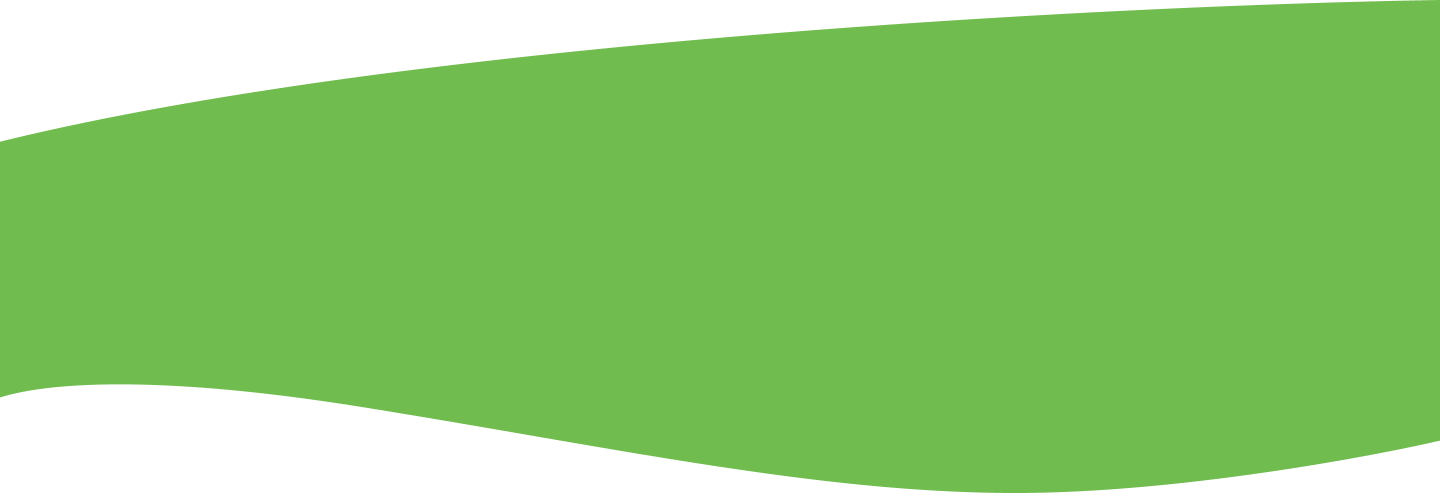
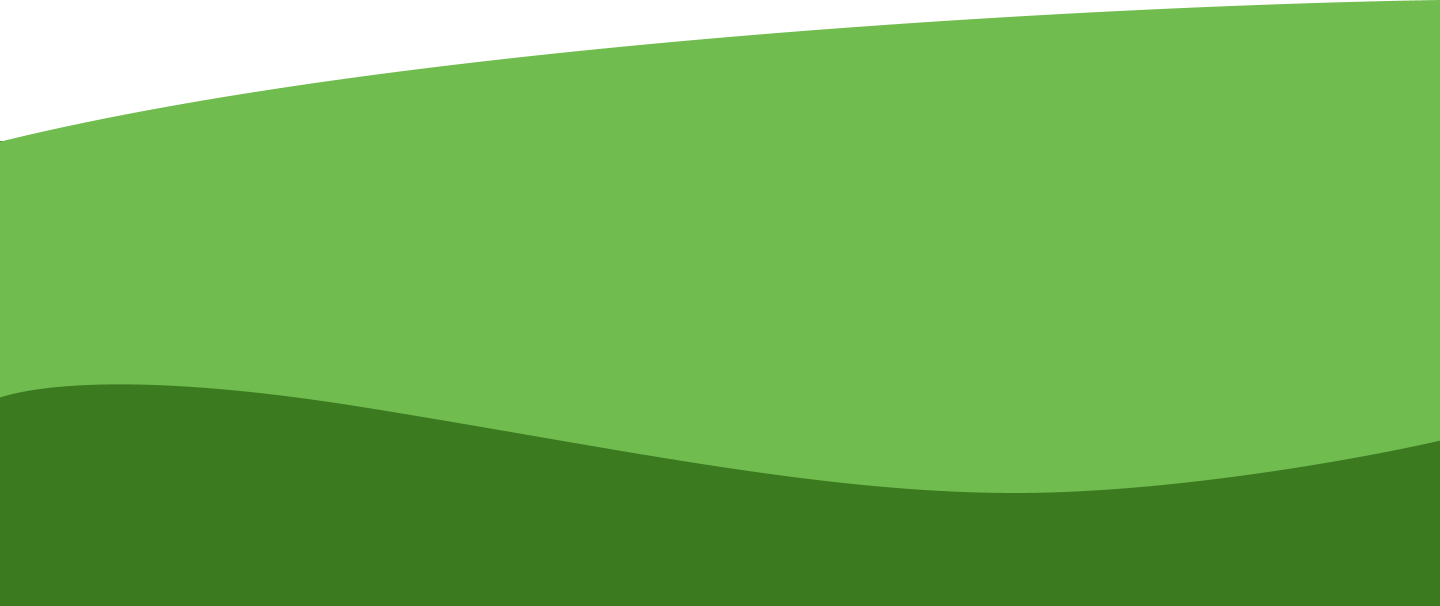
selection changes

Changed region(s): [[0.0, 0.6085, 1.0, 1.0], [0.0, 0.0, 0.9062, 0.3043]]

diff --git a/minilingo/src/Style/GameSelection.css b/minilingo/src/Style/GameSelection.css
@@ -26,18 +26,28 @@
 }
 
 .circle-btn {
-  width: 140px;
-  height: 140px;
+  width: 170px;
+  height: 170px;
   border-radius: 50%;
+  background: linear-gradient(
+    145deg,
+    rgb(255, 188, 106) 0%, /* top-left light */
+    rgba(255, 178, 62, 0.6) 50%, /* middle color */
+    rgba(244, 145, 7, 0.898) 100% /* bottom-right darker */
+  );
   /* Matches the translucent pink circles in your image */
-  background-color: rgba(224, 196, 196, 0.6); 
+  background-color: #F4B11A; 
   border: 4px solid white;
   font-size: 60px;
   cursor: pointer;
   position: absolute;
   transition: transform 0.2s cubic-bezier(0.175, 0.885, 0.32, 1.275);
+  box-shadow: 0 8px 12px rgba(0,0,0,0.2);
 }
 
+.circle-btn.bottom{
+  transform: translateX(-50%);
+}
 .circle-btn:hover {
   transform: scale(1.15);
 }
@@ -45,7 +55,16 @@
 /* Staggered positioning to match image_b42435.png layout */
 .circle-btn.left { left: 10%; top: 15%; }
 .circle-btn.right { right: 10%; top: 10%; }
-.circle-btn.bottom { left: 50%; top: 55%; transform: translateX(-50%); }
+.circle-btn.bottom {  left: 50%; top: 55%; transform: translateX(-50%);}
+
+.circle-btn.left:hover,
+.circle-btn.right:hover {
+  transform: scale(1.15); /* scale without moving */
+}
+
+.circle-btn.bottom:hover {
+  transform: translateX(-50%) scale(1.15); /* keep centered + scale */
+}
 
 .landscape {
   position: absolute;
@@ -53,15 +72,112 @@
   width: 100%;
 }
 
-.hill-light {
-  background-color: #8db359;
-  height: 25vh;
-  border-radius: 50% 50% 0 0 / 100% 100% 0 0;
-  margin-bottom: -10vh;
+/* hill full width - now occupying space in the flow */
+.hill-wrap {
+  position: relative; /* Change from absolute to relative */
+  width: 100%;
+  z-index: 2; /* Sits above the background color, below the text */
+  margin-top: -30vh; /* Keeps it overlapping the sky slightly for the "horizon" look */
+  line-height: 0; /* Prevents tiny gaps at the bottom of images */
 }
 
-.hill-dark {
-  background-color: #4d6d1d;
-  height: 35vh;
-  border-radius: 50% 50% 0 0 / 100% 100% 0 0;
+.hill-img {
+  width: 100%;
+  height: auto;
+  display: block;
 }
+.tree-img {
+  position: absolute;
+  bottom: 80%;     /* slightly above bottom of hill-wrap */
+  left: 15%;
+  transform: translateX(-50%);
+  width: 80px;
+  height: 120px;
+  z-index: 10;     /* above hill and clouds for testing */
+}
+.tree-img-2 {
+  position: absolute;
+  bottom: 80%;     /* slightly above bottom of hill-wrap */
+  left: 20%;
+  transform: translateX(-50%);
+  width: 80px;
+  height: 120px;
+  z-index: 10;     /* above hill and clouds for testing */
+  border: 2px solid red; 
+}
+
+.fill {
+  background-color: #3C7A20; /* Dark green */
+  height: 200px; /* enough to show below hill */
+  position: relative;
+  z-index: 1; 
+  /* Removing absolute positioning from the hill allows this to sit under it naturally */
+}
+
+/* Position clouds without shifting hero text */
+
+.cloud-container {
+  position: absolute;
+  top: 0;
+  left: 0;
+  width: 100%;
+  height: 100%;
+  pointer-events: none; /* Allows user to click buttons behind clouds */
+  z-index: 1;
+}
+
+.cloud {
+  position: absolute;
+  height: auto;
+  filter: drop-shadow(2px 4px 6px rgba(0,0,0,0.1)); /* Matches image shadow style */
+}
+
+/* Specific placements based on your 12-column grid request */
+.cloud-pos-2 { /* Columns 1-2 */
+  width: 15%;
+  left: 5%;
+  top: 40%;
+}
+
+.cloud-pos-1 { /* Columns 2-4 */
+  left: 12%;
+  top: 15%;
+}
+
+.cloud-pos-4 { /* Columns 6-7 */
+
+  left: 75%;
+  top: 120px;;
+}
+
+.cloud-pos-3 { /* Columns 11-12 */
+  width: 15%;
+  right: 5%;
+  top: 45%;
+}
+
+.hero-wrap {
+  position: relative;
+  z-index: 10; /* Keeps text above clouds */
+}
+
+/* Animation for the clouds */
+@keyframes drift {
+  0% { transform: translateX(0); }
+  50% { transform: translateX(15px); }
+  100% { transform: translateX(0); }
+}
+
+.cloud {
+  position: absolute;
+  height: auto;
+  filter: drop-shadow(0 10px 15px rgba(0,0,0,0.08));
+  /* Apply the animation */
+  animation: drift 6s ease-in-out infinite; 
+}
+
+/* Stagger the start times so they don't move in perfect sync */
+.cloud-pos-1 { animation-delay: 0s; }
+.cloud-pos-2 { animation-delay: 1.5s; }
+.cloud-pos-3 { animation-delay: 3s; }
+.cloud-pos-4 { animation-delay: 4.5s; }

diff --git a/minilingo/src/GameSelection.jsx b/minilingo/src/GameSelection.jsx
@@ -1,5 +1,13 @@
 import { useNavigate } from "react-router-dom";
 import "./Style/GameSelection.css";
+import hillLight from "./assets/hillLight.png";
+import cloud1 from "./assets/cloud1.png";
+import cloud2 from "./assets/cloud2.png";
+import cloud3 from "./assets/cloud3.png";
+import cloud4 from "./assets/cloud4.png";
+import Tree1 from "./assets/Tree1.png";
+import Tree2 from "./assets/Tree2.png";
+
 
 export default function GameSelection() {
   const navigate = useNavigate();
@@ -19,10 +27,31 @@ export default function GameSelection() {
         <button className="circle-btn bottom" onClick={() => startGame("colors")}>🎨</button>
       </div>
 
-      <div className="landscape">
-        <div className="hill-light"></div>
-        <div className="hill-dark"></div>
+      <div className="hill-wrap">
+        <img src={hillLight} alt="" className="hill-img" />
+        <img src={Tree1} alt="" className="tree-img" />
       </div>
+
+      /* Absolute Cloud Layer: Individually positioned to match design grid */
+        <div className="cloud-container">
+           {/* Cloud 2: span 1-2 */}
+          <img src={cloud2} alt="" className="cloud cloud-pos-2" />
+
+          {/* Cloud 1: spans columns 2-4 */}
+          <img src={cloud1} alt="" className="cloud cloud-pos-1" />
+
+          {/* Cloud 4: spans columns 6-7 */}
+          <img src={cloud4} alt="" className="cloud cloud-pos-4" />
+
+          {/* Cloud 3: spans columns 11-12 */}
+          <img src={cloud3} alt="" className="cloud cloud-pos-3" />
+        </div>
+
+      <section className="fill">
+      
+      </section>
+      
+      
     </main>
   );
 }

diff --git a/minilingo/src/lesson1.jsx b/minilingo/src/lesson1.jsx
@@ -20,7 +20,7 @@ export default function Lesson1() {
     setLoading(true);
     setError(null);
     try {
-      const res = await fetch("http://localhost:5000/api/match-round", {
+      const res = await fetch("http://127.0.0.1:5000/api/match-round", {
         method: "POST",
         headers: { "Content-Type": "application/json" },
         body: JSON.stringify({ topic: currentTopic }), 

diff --git a/backend/main.py b/backend/main.py
@@ -16,7 +16,7 @@ CORS(app)
 @app.route("/api/match-round", methods=["POST"])
 def match_round():
     data = request.json or {}
-    base_topic = data.get("topic", "animals")
+    base_topic = data.get("topic")
     
     sub_categories = ["food", "colors", "shapes", "nature", "clothes", "toys", "school"]
     chosen_topic = random.choice(sub_categories) if base_topic == "random" else base_topic
@@ -52,7 +52,7 @@ def match_round():
         raw_text = response.text.strip()
         if raw_text.startswith("```"):
             raw_text = raw_text.split("```json")[-1].split("```")[0].strip()
-            
+        
         return jsonify(json.loads(raw_text))
     
     except Exception as e:
